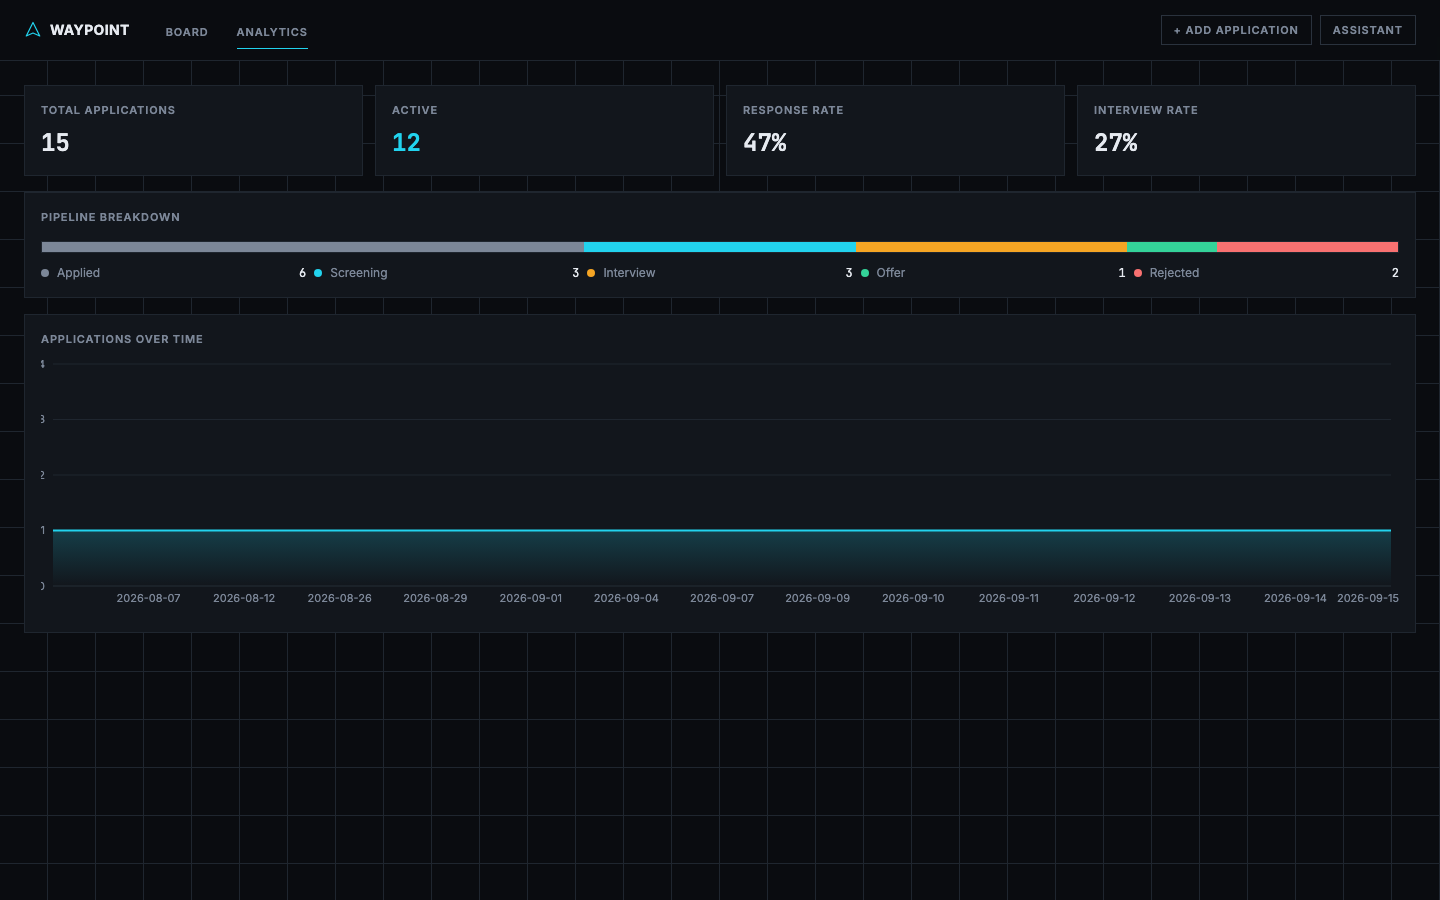
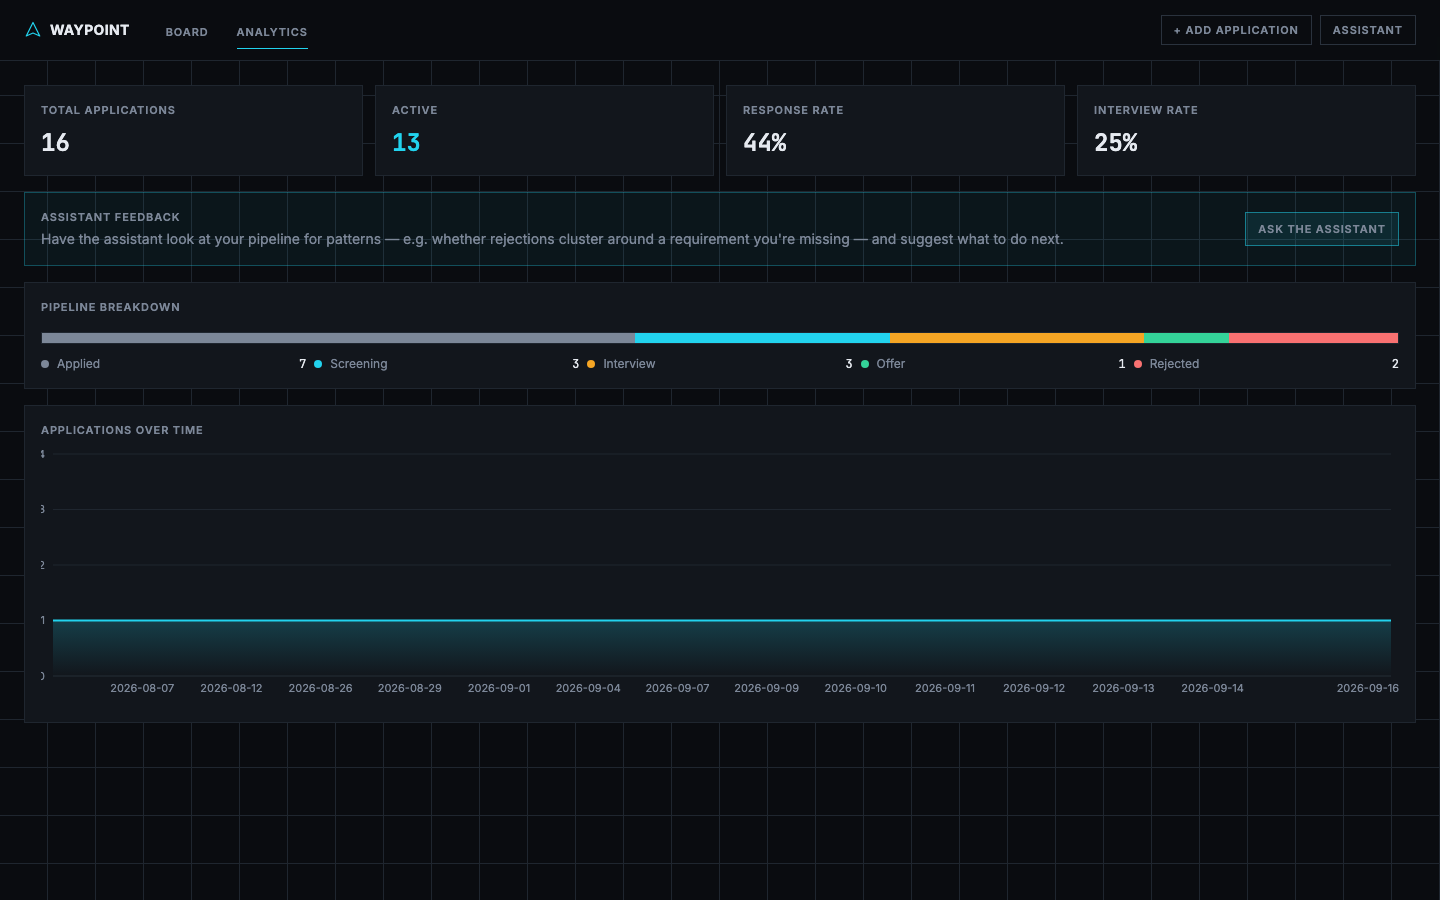
docs: catch up README with the pipeline-feedback feature and two more bugs
- Refresh the analytics screenshot, which was taken before the "Ask the
  assistant" feedback card existed — the doc no longer showed what it
  described.
- Add a CI status badge (was running the whole time, just not surfaced).
- Note the placeholder-API-key requirement for CI in the Testing section.
- Extend the "correctness details" callout with the other two real bugs
  found while building this: the status-casing normalization issue and the
  CRLF SSE-parsing bug that silently dropped every chat event through the
  dev proxy. Both were caught by actually running the app, not by reading
  the code, which felt worth saying explicitly.

diff --git a/README.md b/README.md
@@ -1,5 +1,7 @@
 # Waypoint
 
+[![CI](https://github.com/willapat/langchain-job-tracker/actions/workflows/ci.yml/badge.svg)](https://github.com/willapat/langchain-job-tracker/actions/workflows/ci.yml)
+
 A job application tracker with a LangGraph agent at its center — not bolted on the side. Paste a job posting link or description and the agent fetches it, extracts the structured fields, asks you about anything important it couldn't find, and saves it. Ask it questions about your pipeline. Tell it to delete something and it will ask for your approval first, every time.
 
 ![Waypoint board view](docs/screenshots/board.png)
@@ -72,7 +74,13 @@ flowchart LR
 
 Seven tools (`tools/job_tools.py`): `save_application`, `get_applications`, `update_status`, `delete_application`, `fetch_job_posting` (SSRF-guarded URL fetch), `extract_job_fields` (structured extraction *without* saving — the model decides whether to ask a follow-up before calling `save_application` itself), and `get_pipeline_stats` (exact aggregate numbers for the feedback feature, so the model cites real counts instead of estimating from a raw list).
 
-**One correctness detail worth calling out**, because it silently produces wrong behavior if you get it wrong: `HumanInTheLoopMiddleware`'s reject decision uses the `message` field *verbatim* as the tool's result if you provide one. If your UI passes a bare user-typed reason ("changed my mind") as that message, the model never learns the delete was actually blocked — it only sees an ambiguous string — and can hallucinate "I've deleted it" in its reply. Both the CLI and the web chat panel compose the reject message as `"...tool was NOT executed. Reason given: {reason}"` specifically to avoid this.
+**A few correctness details worth calling out**, because each one silently produced wrong behavior rather than an obvious error:
+
+- `HumanInTheLoopMiddleware`'s reject decision uses the `message` field *verbatim* as the tool's result if you provide one. If your UI passes a bare user-typed reason ("changed my mind") as that message, the model never learns the delete was actually blocked — it only sees an ambiguous string — and can hallucinate "I've deleted it" in its reply. Both the CLI and the web chat panel compose the reject message as `"...tool was NOT executed. Reason given: {reason}"` specifically to avoid this.
+- The board matches an application's status against its five lowercase columns by exact string. The agent sometimes saves a differently-cased status ("Applied" with a capital A) — that write succeeds, the data is fine, it just never matches any column and never renders anywhere on the board. No error, just a card that silently doesn't exist visually. Fixed by normalizing status casing once, in `app/crud.py`, rather than trusting every caller (agent tool or REST) to send it consistently.
+- The chat SSE client parses `event:`/`data:` frames by splitting on `"\n\n"`. The Vite dev proxy rewrites the backend's separators to `"\r\n\r\n"`, which that split never matches — every event was silently dropped, with the request still completing normally underneath. The chat panel just sat on its "thinking" indicator forever for what looked like a slow response but was actually a fully-completed, fully-discarded one. Found by comparing a raw `fetch()` against the same URL (which worked) to the app's own parser (which didn't), then normalizing CRLF to LF before parsing.
+
+Both of the last two only surfaced when actually clicking through the running app, not from staring at the code — a reminder that "the tests pass" and "it works" aren't the same claim.
 
 ## Tech stack
 
@@ -127,6 +135,8 @@ make test
 ```
 
 41 tests covering: CRUD logic and status transitions, the guardrail's allow/deny behavior (including the off-topic-keyword-overlap edge case above), the SSRF validator's IP-range blocklist and JSON-LD-preferring extraction, tool return contracts, and the applications API. Agent responses that require a live Gemini call aren't asserted against in tests — those were verified manually end-to-end (delete → approve → confirmed in SQLite; delete → reject → confirmed *not* deleted; real Greenhouse posting → correct structured extraction).
+
+CI (`.github/workflows/ci.yml`) runs this same suite plus a frontend build on every push and PR. It needs a `GOOGLE_API_KEY` env var to even *import* the backend (building the LangGraph agent constructs a Gemini client at module load time) — CI sets a placeholder since no test actually calls the model.
 
 ## Limitations & honest notes
 
